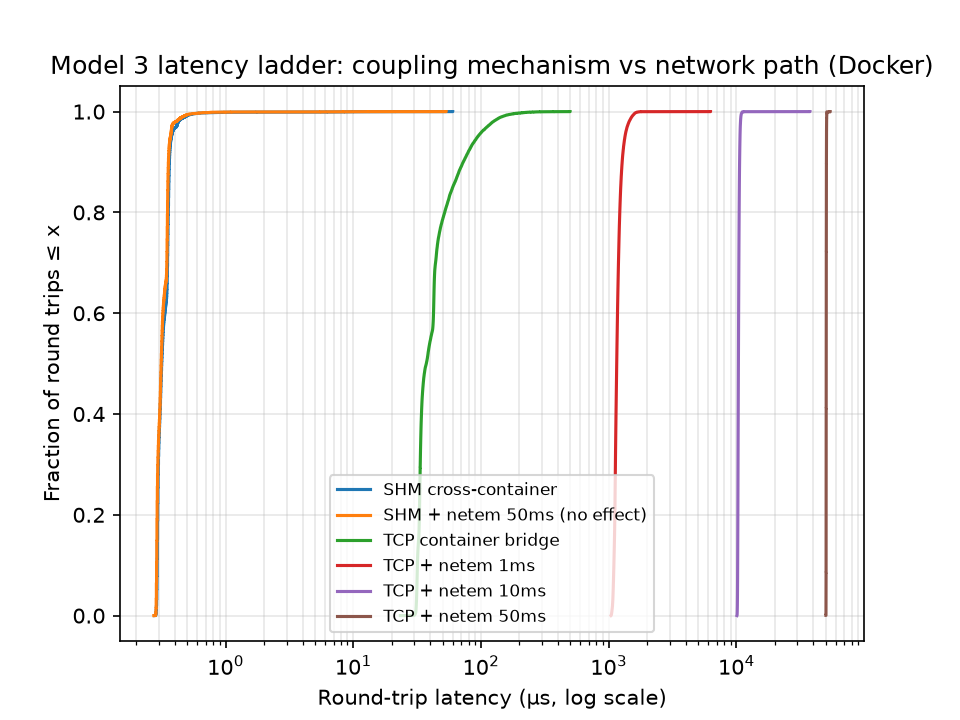
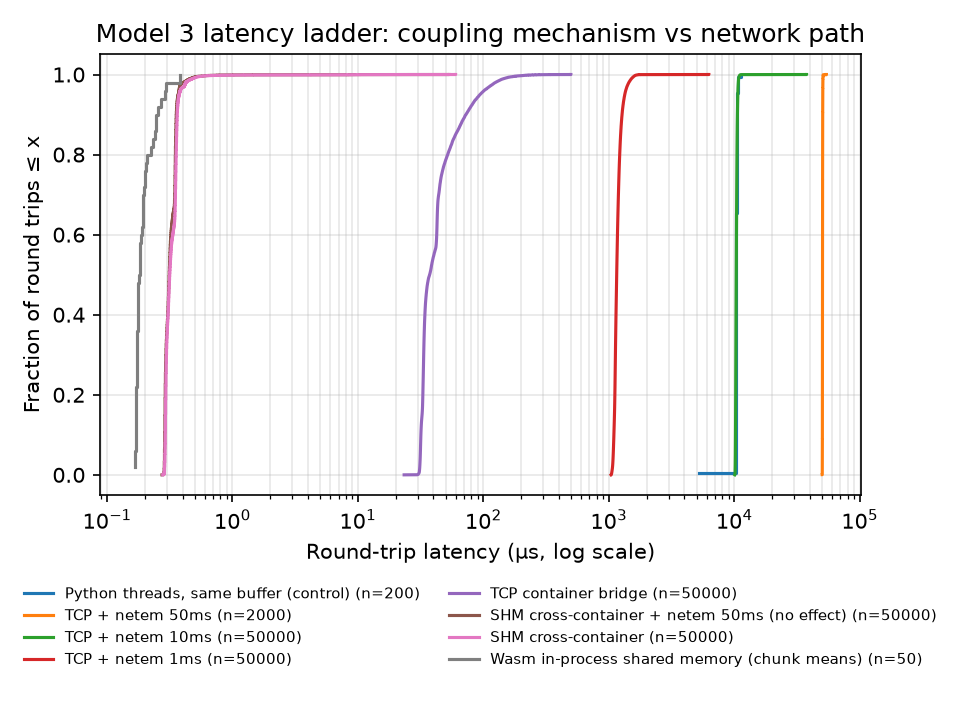
ladder: wasm rung + python-threads control row; executor sweep in figures

Changed region(s): [[0.0312, 0.0306, 0.9688, 0.9778]]

diff --git a/analysis/plot_ladder.py b/analysis/plot_ladder.py
@@ -1,26 +1,36 @@
 import csv
 import matplotlib.pyplot as plt
 
+# The master ladder: every Model 3 experiment on one log axis, same ping-pong
+# protocol throughout. Each series names its CSV column because the wasm run
+# records per-chunk MEANS (chunk_mean_rtt_ns, 50 values) while every other run
+# records per-round-trip samples (rtt_ns). Firecracker has no rung: cross-VM
+# shared memory is precluded by design and the vsock relay was not built;
+# the figure caption says so.
 SERIES = [
-    ("results/docker/docker_m3_shm.csv", "SHM cross-container"),
-    ("results/docker/docker_m3_shm_netem50ms.csv", "SHM + netem 50ms (no effect)"),
-    ("results/docker/docker_m3_tcp.csv", "TCP container bridge"),
-    ("results/docker/docker_m3_tcp_netem1ms.csv", "TCP + netem 1ms"),
-    ("results/docker/docker_m3_tcp_netem10ms.csv", "TCP + netem 10ms"),
-    ("results/docker/docker_m3_tcp_netem50ms.csv", "TCP + netem 50ms"),
+    # path, label, column
+    ("results/host/host_m3_pythreads_default.csv", "Python threads, same buffer (control)", "rtt_ns"),
+    ("results/docker/docker_m3_tcp_netem50ms.csv", "TCP + netem 50ms", "rtt_ns"),
+    ("results/docker/docker_m3_tcp_netem10ms.csv", "TCP + netem 10ms", "rtt_ns"),
+    ("results/docker/docker_m3_tcp_netem1ms.csv", "TCP + netem 1ms", "rtt_ns"),
+    ("results/docker/docker_m3_tcp.csv", "TCP container bridge", "rtt_ns"),
+    ("results/docker/docker_m3_shm_netem50ms.csv", "SHM cross-container + netem 50ms (no effect)", "rtt_ns"),
+    ("results/docker/docker_m3_shm.csv", "SHM cross-container", "rtt_ns"),
+    ("results/wasmtime/wasmtime_m3_shm.csv", "Wasm in-process shared memory (chunk means)", "chunk_mean_rtt_ns"),
 ]
 
-for path, label in SERIES:
+for path, label, col in SERIES:
     with open(path) as f:
-        vals = sorted(int(r["rtt_ns"]) / 1000 for r in csv.DictReader(f))  # ns -> µs
+        vals = sorted(float(r[col]) / 1000 for r in csv.DictReader(f))  # ns -> µs
     ys = [(i + 1) / len(vals) for i in range(len(vals))]
-    plt.step(vals, ys, where="post", label=label)
+    plt.step(vals, ys, where="post", label=f"{label} (n={len(vals)})")
 
 plt.xscale("log")
 plt.xlabel("Round-trip latency (µs, log scale)")
 plt.ylabel("Fraction of round trips ≤ x")
-plt.title("Model 3 latency ladder: coupling mechanism vs network path (Docker)")
-plt.legend(fontsize=8)
+plt.title("Model 3 latency ladder: coupling mechanism vs network path")
 plt.grid(True, alpha=0.3, which="both")
+plt.legend(loc="upper center", bbox_to_anchor=(0.5, -0.18), ncol=2, fontsize=7, frameon=False)
+plt.tight_layout()
 plt.savefig("results/figures/docker_m3_ladder.png", dpi=150)
 print("wrote results/figures/docker_m3_ladder.png")
